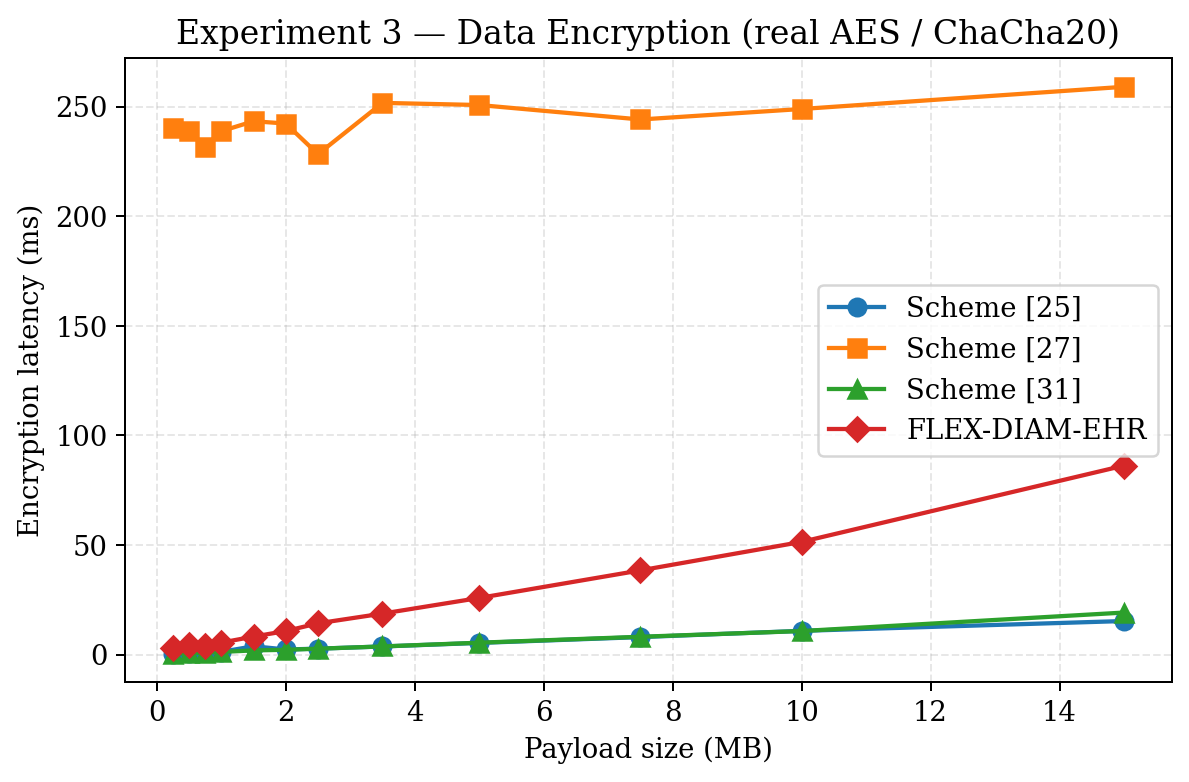
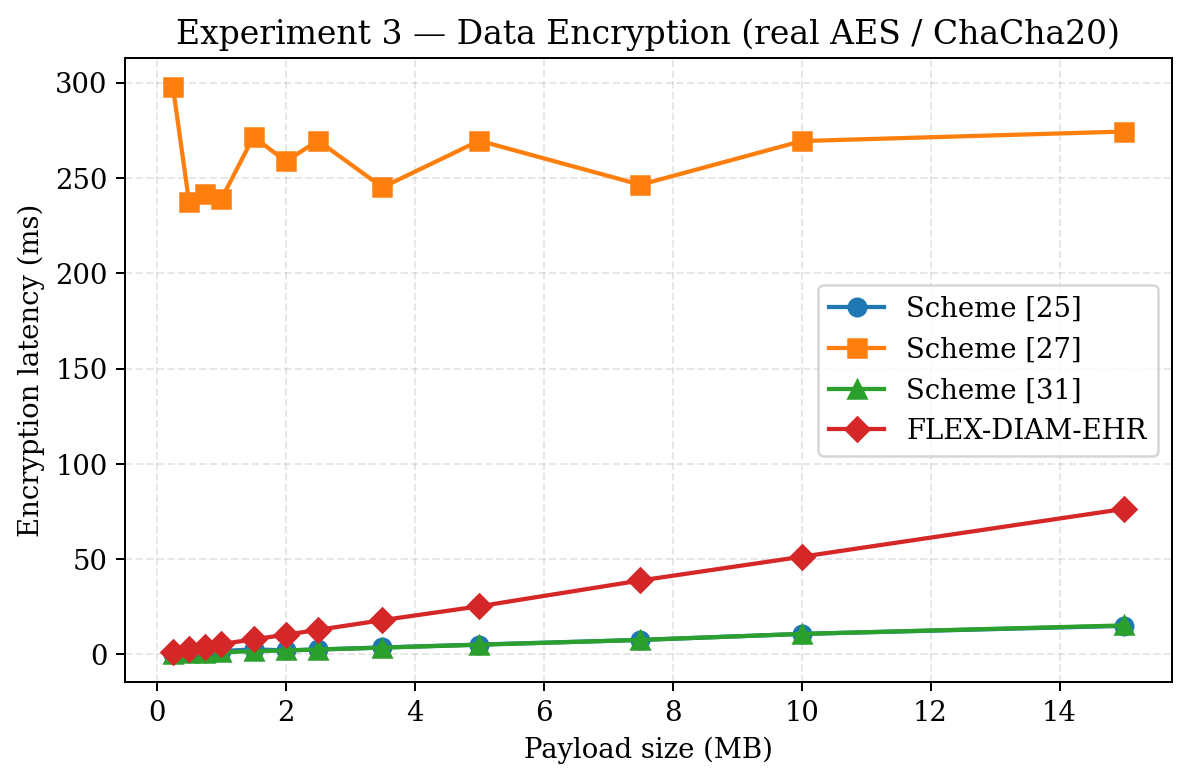
Extend Exp 5 sweep to N=75 and refresh experiment results
- run_real_experiments.py: cross-domain x-axis now [1..15, 20, 25, 30, 50, 75]
  with Scheme [27] measured directly up to N=20 and linearly extrapolated
  beyond (least-squares fit over measured points). Saves ~50 min/repeat
  at high N without changing the qualitative comparison.
- results/: regenerated CSVs and figures for exp1-exp6 from the latest run
  on the Ethereum-backed chain (Anvil + FlexDiamEHR.sol).

diff --git a/run_real_experiments.py b/run_real_experiments.py
@@ -57,7 +57,7 @@ RESULTS_DIR.mkdir(exist_ok=True)
 # Each (scheme, x) measurement is repeated REPEATS times and we report the
 # MEDIAN — robust against single-run outliers (GC pauses, OS scheduling).
 # 3 is a reasonable balance between noise reduction and total runtime.
-REPEATS = 1
+REPEATS = 5
 
 # Default policy attributes (universe must contain them)
 UNIVERSE = ["doctor", "cardiologist", "hospital_A", "hospital_B", "emergency", "researcher"]
